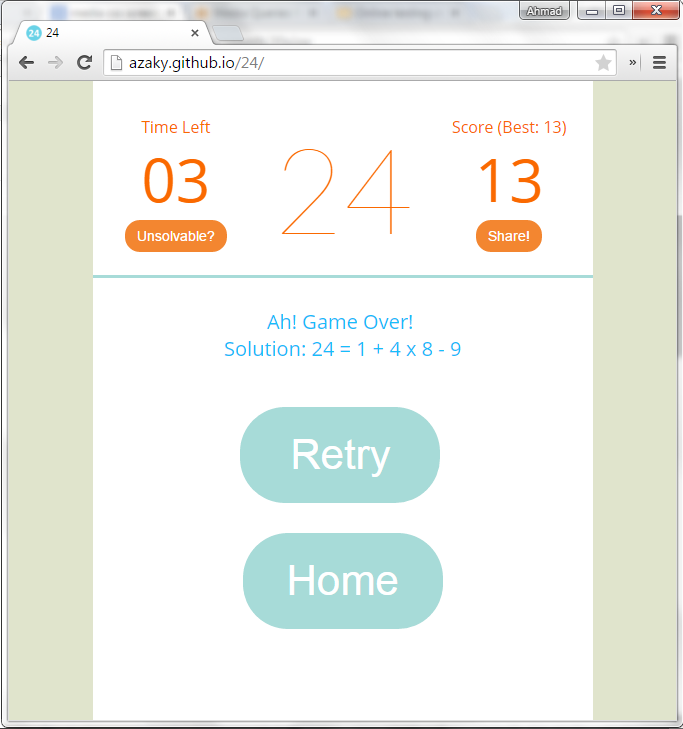
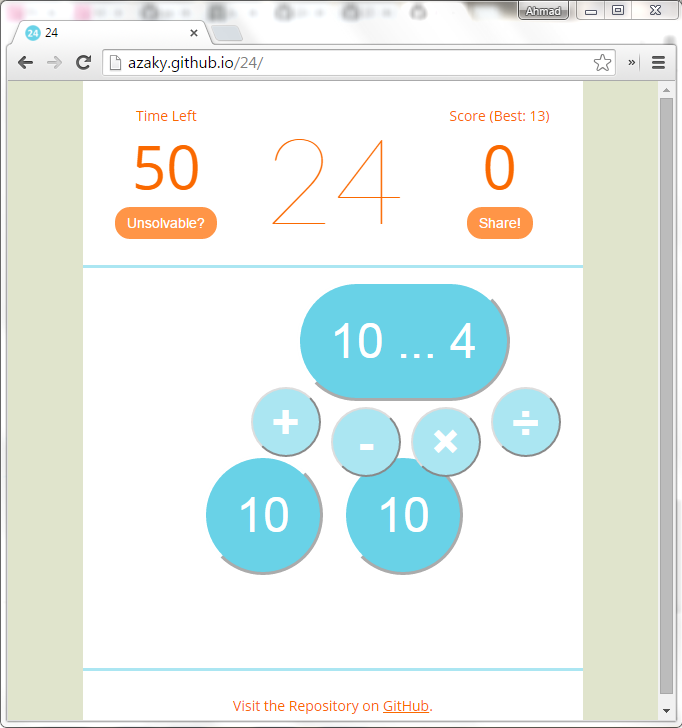
Update readme

diff --git a/README.md b/README.md
@@ -1,2 +1,21 @@
 # 24
-Coming soon ...
+
+[http://azaky.github.io/24](http://azaky.github.io/24)
+
+Combine the numbers to get 24 using only basic arithmetic operators (+ - × ÷)! 
+
+Drag the numbers onto the others to combine, and click on the resulted numbers to undo.
+
+![](https://raw.githubusercontent.com/azaky/24/gh-pages/assets/Capture.PNG)
+
+I once reached 18, but it was a luck. On average, I only get 5-6 points.
+
+## Thanks to ...
+
+- [2048 by Gabriele Cirulli](https://github.com/gabrielecirulli/2048). I am not a web designer, so I followed 2048 for the most of the design part.
+- [Goldfish by manekineko](http://www.colourlovers.com/palette/92095/Giant_Goldfish).
+- Some of my friends who beta-tested this game.
+
+## License
+
+24 is licensed under [MIT License](https://github.com/azaky/24/blob/master/LICENSE).
